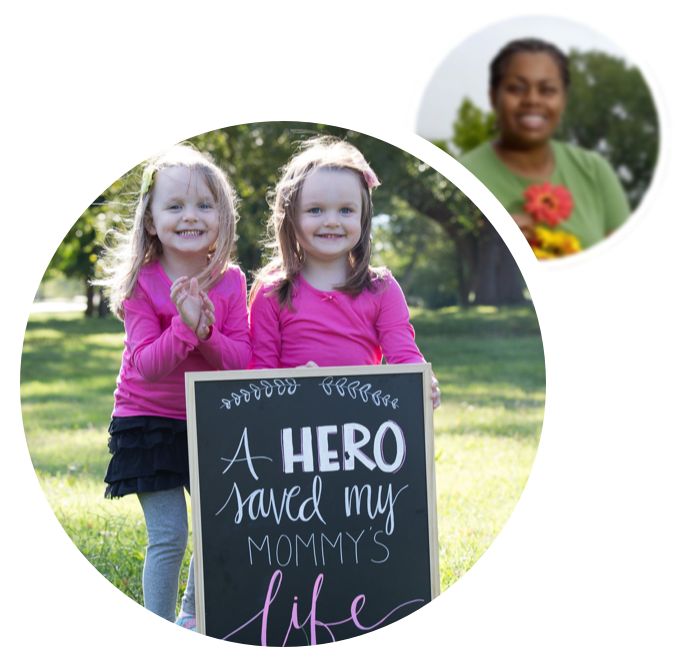
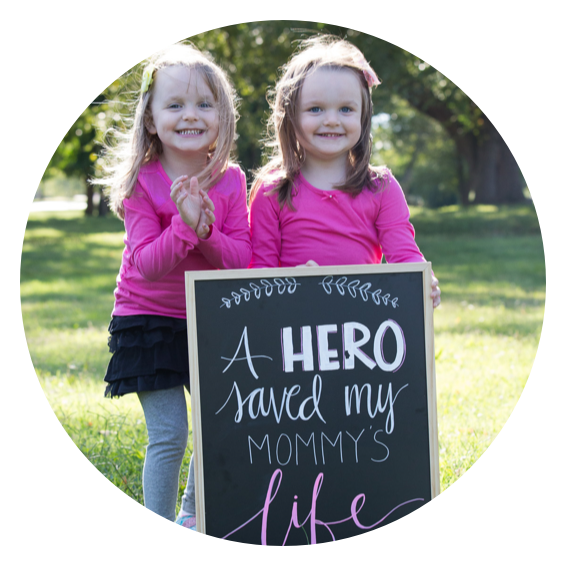
Style fix (cropping images) for PT Stories.

diff --git a/themes/custom/mat/sass/components/paragraphs/_paragraph--landing-page-stories.scss b/themes/custom/mat/sass/components/paragraphs/_paragraph--landing-page-stories.scss
@@ -90,9 +90,11 @@
   }
 
   .stories--img3 {
+    z-index: 2;
+
     @media (max-width: $screen-xs-max) {
       position: relative !important;
-      max-width: 78%;
+      max-width: 60%;
       margin: 4rem auto 6rem auto;
     }
 
@@ -143,7 +145,7 @@
 
   .stories--img6 {
     width: 12%;
-    top: 0;
+    top: -3rem;
     left: 15%;
 
     @media (min-width: $screen-sm-min) {
@@ -155,6 +157,25 @@
 
     @media (min-width: $screen-sm-min) and (max-width: $screen-sm-max) {
       left: 75%;
+    }
+  }
+
+  .stories--img7 {
+    width: 9rem;
+    top: .5rem;
+    left: 62%;
+    z-index: 1;
+
+    @media (min-width: $screen-sm-min) {
+      width: auto;
+      top: auto;
+      left: auto;
+      right: -20%;
+      bottom: 32rem;
+    }
+
+    @media (min-width: $screen-sm-min) and (max-width: $screen-sm-max) {
+      left: -40%;
     }
   }
 }
